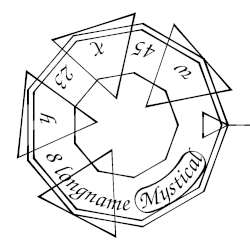
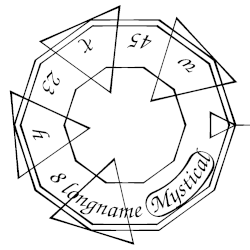
ligature example

Changed region(s): [[0.028, 0.028, 1.0, 0.98]]

diff --git a/draw_examples.py b/draw_examples.py
@@ -13,7 +13,8 @@ examples: dict[str, list[int]] = {
     'operator_foo': [-1.1, -1.1, 1.1, 1.1],
     'name_foo': [-1.1, -1.1, 1.1, 1.1],
     'name_foobar': [-1.1, -1.1, 1.1, 1.1],
-    'quicksort_example': [-4, -4.5, 4.25, 3, 2],
+    'quicksort_example': [-4, -4.5, 4.25, 3.5, 2.5],
+    'ligature_example': [-1.5, -7.5, 2, -1],
 }
 base_command = "pstopng -0.6 d d d 50 examples.ps -Pimages/".split()
 for name, dimensions in examples.items():

diff --git a/README.md b/README.md
@@ -66,7 +66,9 @@ Sigils for user variables can be designed with any sigil system.  My examples mo
 
 There is a sigil for `def` but a very common pattern is to push a name, push a function, and def the name to the function. To save space and to emphasize this definition, there is special syntax for this case consisting of the usual name triangle with the end of the link line directly below it, and the def sigil is omitted entirely. This is extended to the other two ring types for simplicity. Any other use of `def` will just use the def sigil as normal.
 
-def-ligature example
+| ![ligature example](images/ligature_example.png) |
+|:--:|
+| ` { ...  /even { 2 mod 0 eq } def ...  } ` |
 
 This only applies inside of executable arrays. I considered a similar ligature for /name { ring } in dictionaries but there's too much chance of getting it wrong.
 
